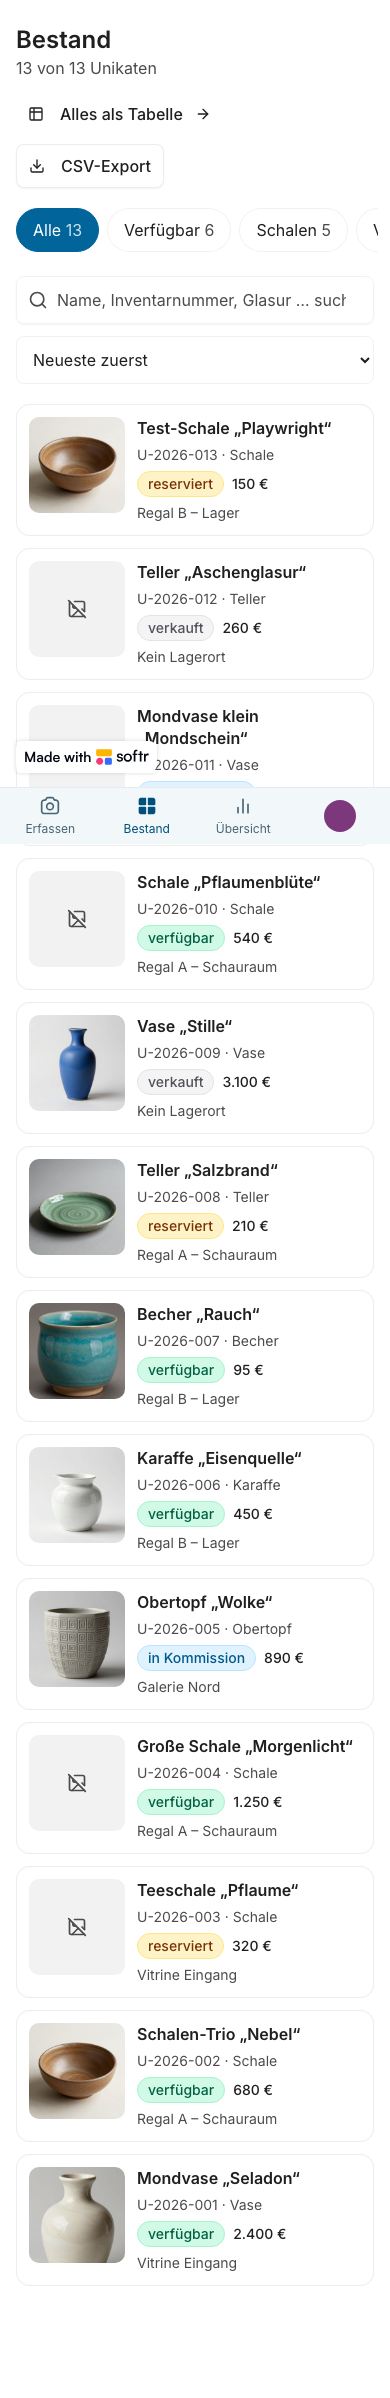
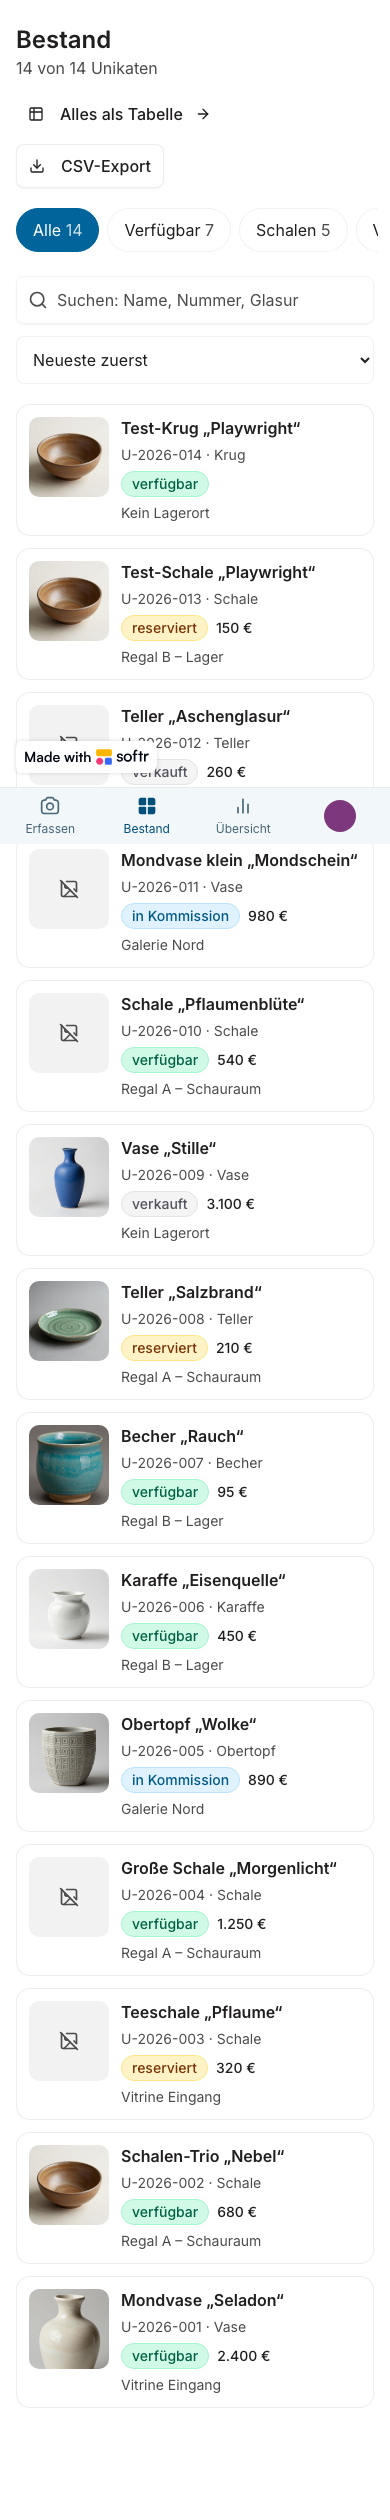
Softr: Bestand nach UI-Review – Schließen-Knopf, Rückgängig, Statusfarben, Detail-Reihenfolge, Tablet/Mobil-Layout

diff --git a/konzept/softr/blocks/bestand.tsx b/konzept/softr/blocks/bestand.tsx
@@ -4,8 +4,8 @@ import { useCurrentUser } from "@/lib/user";
 import { Button } from "@/components/ui/button";
 import { Input } from "@/components/ui/input";
 import { Textarea } from "@/components/ui/textarea";
-import { Sheet, SheetContent, SheetDescription, SheetHeader, SheetTitle } from "@/components/ui/sheet";
-import { ArrowRight, Check, Download, ImageOff, Loader2, Minus, Pencil, Plus, Search, Table2 } from "lucide-react";
+import { Sheet, SheetClose, SheetContent, SheetDescription, SheetHeader, SheetTitle } from "@/components/ui/sheet";
+import { ArrowRight, Check, Download, ImageOff, Loader2, Minus, Pencil, Plus, Search, Table2, X } from "lucide-react";
 import { toast } from "sonner";
 
 const ds = datasource.define({ unikate: "unikate", edition: "edition" });
@@ -76,6 +76,15 @@ const STATUS_STYLE: Record<string, string> = {
   [ROHLING]: "bg-stone-100 text-stone-700 border-stone-200",
   glasiert: "bg-teal-50 text-teal-800 border-teal-200",
 };
+
+const STATUS_ACTIVE: Record<string, string> = {
+  verfügbar: "bg-emerald-600 text-white border-emerald-600",
+  reserviert: "bg-amber-400 text-amber-950 border-amber-400",
+  [VERKAUFT]: "bg-zinc-500 text-white border-zinc-500",
+  [KOMMISSION]: "bg-sky-600 text-white border-sky-600",
+};
+const UNDO_MS = 10000;
+const SHEET_CLASS = "w-full overflow-y-auto [&>button:last-child]:hidden";
 
 type Opt = { id: string; label: string };
 type Attachment = { id?: string; url: string; filename?: string; thumbnails?: { url: string; size: string }[] };
@@ -325,17 +334,44 @@ function Thumb({ fotos, size, className }: { fotos: Attachment[]; size: "small" 
   return <img src={thumb(first, size)} alt="" loading="lazy" className={`${className} object-cover`} />;
 }
 
-function Chip({ active, onClick, children, disabled }: { active: boolean; onClick: () => void; children: string; disabled?: boolean }) {
+function Chip({ active, onClick, children, disabled, activeClass }: { active: boolean; onClick: () => void; children: string; disabled?: boolean; activeClass?: string }) {
   return (
     <button
       type="button"
       aria-pressed={active}
       disabled={disabled}
       onClick={onClick}
-      className={`min-h-11 px-4 rounded-full border text-base disabled:opacity-60 ${active ? "bg-primary text-primary-foreground border-primary" : "bg-background hover:bg-muted border-input"}`}
+      className={`inline-flex items-center gap-1.5 min-h-11 px-4 rounded-full border text-base disabled:opacity-60 ${active ? activeClass ?? "bg-primary text-primary-foreground border-primary" : "bg-background hover:bg-muted border-input"}`}
     >
+      {active && <Check className="w-4 h-4" aria-hidden />}
       {children}
     </button>
+  );
+}
+
+function PanelHeader({ title, description }: { title: string; description: string }) {
+  return (
+    <SheetHeader className="flex-row items-start justify-between gap-3 space-y-0">
+      <div className="min-w-0">
+        <SheetTitle className="text-xl break-words hyphens-auto">{title}</SheetTitle>
+        <SheetDescription>{description}</SheetDescription>
+      </div>
+      <SheetClose asChild>
+        <Button variant="ghost" className="h-11 w-11 p-0 shrink-0" aria-label="Schließen">
+          <X className="w-6 h-6" aria-hidden />
+        </Button>
+      </SheetClose>
+    </SheetHeader>
+  );
+}
+
+function DoneButton() {
+  return (
+    <SheetClose asChild>
+      <Button variant="outline" className="w-full h-12 text-base">
+        Fertig
+      </Button>
+    </SheetClose>
   );
 }
 
@@ -364,9 +400,9 @@ function UnikatCard({ u, onOpen }: { u: Unikat; onOpen: () => void }) {
   const ort = u.status === KOMMISSION && u.galerie ? u.galerie.label : u.lagerort?.label;
   return (
     <button type="button" onClick={onOpen} className="w-full text-left flex gap-3 rounded-xl border bg-card p-3 min-w-0 hover:border-primary/50 hover:shadow-sm transition">
-      <Thumb fotos={u.fotos} size="medium" className="w-24 h-24 shrink-0 rounded-lg" />
+      <Thumb fotos={u.fotos} size="medium" className="w-20 h-20 sm:w-24 sm:h-24 shrink-0 rounded-lg" />
       <div className="min-w-0 flex-1 space-y-1.5">
-        <p className="font-semibold text-base leading-snug break-words">{u.name || "Ohne Namen"}</p>
+        <p className="font-semibold text-base leading-snug hyphens-auto">{u.name || "Ohne Namen"}</p>
         <p className="text-sm text-muted-foreground">
           {u.inv} · {u.typ}
         </p>
@@ -431,17 +467,24 @@ function UnikatDetail({
   const [photoIndex, setPhotoIndex] = useState(0);
   const [newFiles, setNewFiles] = useState<File[]>([]);
   const [busy, setBusy] = useState(false);
+  const [undo, setUndo] = useState<{ text: string; fields: Record<string, unknown> } | null>(null);
   const { uploadAsync } = useUpload();
   const update = useRecordUpdate({ from: ds.unikate, fields: unikatWerkstattFields });
+  useEffect(() => {
+    if (!undo) return;
+    const timer = window.setTimeout(() => setUndo(null), UNDO_MS);
+    return () => window.clearTimeout(timer);
+  }, [undo]);
   const set = <K extends keyof EditForm>(k: K, v: EditForm[K]) => setForm((s) => ({ ...s, [k]: v }));
   const photo = u.fotos[Math.min(photoIndex, u.fotos.length - 1)];
 
-  async function quickSave(fields: Record<string, unknown>, message: string) {
+  async function quickSave(fields: Record<string, unknown>, message: string, undoFields?: Record<string, unknown>) {
     setBusy(true);
     try {
       await update.mutateAsync({ recordId: u.id, fields } as never);
       await onSaved();
       toast.success(message);
+      setUndo(undoFields ? { text: message, fields: undoFields } : null);
     } catch {
       toast.error("Speichern hat nicht geklappt. Bitte erneut versuchen.");
     } finally {
@@ -451,10 +494,10 @@ function UnikatDetail({
 
   function changeStatus(status: string) {
     if (status === u.status || busy) return;
-    const fields: Record<string, unknown> = { status };
-    if (status === VERKAUFT) fields.verkauftAm = today();
+    const fields: Record<string, unknown> = { status, verkauftAm: status === VERKAUFT ? today() : null };
     if (status !== KOMMISSION) fields.galerie = [];
-    quickSave(fields, `Status: ${status}`);
+    const before = { status: u.status, verkauftAm: u.verkauftAm ? u.verkauftAm.slice(0, 10) : null, galerie: link(u.galerie?.id) };
+    quickSave(fields, `Status: ${status}`, before);
   }
 
   async function saveAll() {
@@ -510,38 +553,10 @@ function UnikatDetail({
 
   return (
     <Sheet open onOpenChange={(o) => !o && onClose()}>
-      <SheetContent side="right" className="w-full sm:max-w-xl overflow-y-auto">
-        <SheetHeader>
-          <SheetTitle className="text-xl">{u.name || "Ohne Namen"}</SheetTitle>
-          <SheetDescription>
-            {u.inv} · {u.typ}
-          </SheetDescription>
-        </SheetHeader>
-        <div className="px-4 pb-8 space-y-6">
-          {photo ? (
-            <div className="space-y-2">
-              <img src={thumb(photo, "large")} alt={u.name} className="w-full max-h-80 object-contain rounded-xl bg-muted" />
-              {u.fotos.length > 1 && (
-                <div className="flex gap-2 overflow-x-auto">
-                  {u.fotos.map((a, i) => (
-                    <button key={a.id ?? a.url} type="button" aria-label={`Foto ${i + 1} zeigen`} onClick={() => setPhotoIndex(i)} className={`shrink-0 rounded-md overflow-hidden border-2 ${i === photoIndex ? "border-primary" : "border-transparent"}`}>
-                      <img src={thumb(a, "small")} alt="" className="w-16 h-16 object-cover" />
-                    </button>
-                  ))}
-                </div>
-              )}
-            </div>
-          ) : (
-            <div className="h-32 rounded-xl bg-muted flex items-center justify-center gap-2 text-muted-foreground">
-              <ImageOff className="w-5 h-5" aria-hidden /> Noch kein Foto
-            </div>
-          )}
-
-          <div className="flex flex-wrap items-center gap-3">
-            <Badge text={u.status} />
-            {u.preis !== null && <span className="text-lg font-semibold">{euro.format(u.preis)}</span>}
-          </div>
-
+      <SheetContent side="right" className={`${SHEET_CLASS} sm:max-w-xl`}>
+        <PanelHeader title={u.name || "Ohne Namen"} description={[u.inv, u.typ, u.preis !== null ? euro.format(u.preis) : ""].filter(Boolean).join(" · ")} />
+        <div className="px-4 pb-8 space-y-6" lang="de">
+          {!update.enabled && <Badge text={u.status} />}
           {update.enabled && (
             <section className="rounded-xl border p-4 space-y-4" aria-labelledby="schnell-titel">
               <h3 id="schnell-titel" className="text-base font-semibold">
@@ -551,7 +566,7 @@ function UnikatDetail({
                 <p className="text-sm text-muted-foreground mb-2">Status</p>
                 <div className="flex flex-wrap gap-2">
                   {statusListe.map((s) => (
-                    <Chip key={s.id} active={u.status === s.label} disabled={busy} onClick={() => changeStatus(s.label)}>
+                    <Chip key={s.id} active={u.status === s.label} activeClass={STATUS_ACTIVE[s.label]} disabled={busy} onClick={() => changeStatus(s.label)}>
                       {s.label}
                     </Chip>
                   ))}
@@ -565,7 +580,7 @@ function UnikatDetail({
                   id="d-lagerort"
                   value={u.lagerort?.id ?? ""}
                   disabled={busy}
-                  onChange={(v) => quickSave({ lagerort: link(v) }, `Lagerort: ${lagerorte.find((l) => l.id === v)?.label ?? "keiner"}`)}
+                  onChange={(v) => quickSave({ lagerort: link(v) }, `Lagerort: ${lagerorte.find((l) => l.id === v)?.label ?? "keiner"}`, { lagerort: link(u.lagerort?.id) })}
                   options={lagerorte}
                   placeholder="Kein Lagerort"
                 />
@@ -579,7 +594,7 @@ function UnikatDetail({
                     id="d-galerie"
                     value={u.galerie?.id ?? ""}
                     disabled={busy}
-                    onChange={(v) => quickSave({ galerie: link(v) }, `Galerie: ${galerien.find((g) => g.id === v)?.label ?? "keine"}`)}
+                    onChange={(v) => quickSave({ galerie: link(v) }, `Galerie: ${galerien.find((g) => g.id === v)?.label ?? "keine"}`, { galerie: link(u.galerie?.id) })}
                     options={galerien}
                     placeholder="Galerie wählen"
                   />
@@ -590,7 +605,41 @@ function UnikatDetail({
                   <Loader2 className="w-4 h-4 animate-spin" aria-hidden /> Wird gespeichert …
                 </p>
               )}
+              {undo && !busy && (
+                <div role="status" className="flex items-center justify-between gap-3 rounded-lg bg-muted p-2 pl-3">
+                  <span className="text-sm">{undo.text} gespeichert</span>
+                  <Button
+                    variant="outline"
+                    className="h-11 text-base"
+                    onClick={() => {
+                      const fields = undo.fields;
+                      setUndo(null);
+                      quickSave(fields, "Rückgängig gemacht");
+                    }}
+                  >
+                    Rückgängig
+                  </Button>
+                </div>
+              )}
             </section>
+          )}
+          {photo ? (
+            <div className="space-y-2">
+              <img src={thumb(photo, "large")} alt={u.name} className="w-full max-h-56 object-contain rounded-xl bg-muted" />
+              {u.fotos.length > 1 && (
+                <div className="flex gap-2 overflow-x-auto">
+                  {u.fotos.map((a, i) => (
+                    <button key={a.id ?? a.url} type="button" aria-label={`Foto ${i + 1} zeigen`} onClick={() => setPhotoIndex(i)} className={`shrink-0 rounded-md overflow-hidden border-2 ${i === photoIndex ? "border-primary" : "border-transparent"}`}>
+                      <img src={thumb(a, "small")} alt="" className="w-16 h-16 object-cover" />
+                    </button>
+                  ))}
+                </div>
+              )}
+            </div>
+          ) : (
+            <div className="h-24 rounded-xl bg-muted flex items-center justify-center gap-2 text-muted-foreground">
+              <ImageOff className="w-5 h-5" aria-hidden /> Noch kein Foto
+            </div>
           )}
 
           {!editing ? (
@@ -628,6 +677,7 @@ function UnikatDetail({
                   </Button>
                 )}
                 <p className="text-sm text-muted-foreground">Löschen ist nicht vorgesehen. Verkaufte Stücke bitte auf „verkauft“ setzen.</p>
+                <DoneButton />
               </div>
             </>
           ) : (
@@ -711,19 +761,19 @@ function UnikatDetail({
 
 function EditionRow({ e, busy, canEdit, onAdjust, onOpen }: { e: Edition; busy: boolean; canEdit: boolean; onAdjust: (delta: number) => void; onOpen: () => void }) {
   return (
-    <div className="flex items-center gap-3 rounded-xl border bg-card p-3 min-w-0">
+    <div className="flex flex-col sm:flex-row sm:items-center gap-3 rounded-xl border bg-card p-3 min-w-0">
       <button type="button" onClick={onOpen} className="flex items-center gap-3 min-w-0 flex-1 text-left">
         <Thumb fotos={e.foto} size="small" className="w-14 h-14 shrink-0 rounded-lg" />
         <div className="min-w-0 space-y-1">
-          <p className="font-semibold text-base leading-snug break-words">{e.modell}</p>
+          <p className="font-semibold text-base leading-snug hyphens-auto">{e.modell}</p>
           <div className="flex flex-wrap items-center gap-2">
             <Badge text={e.zustand} />
             {e.glasur && <span className="text-sm">{e.glasur}</span>}
           </div>
-          <p className="text-sm text-muted-foreground truncate">{e.lagerort?.label ?? "Kein Lagerort"}</p>
+          <p className="text-sm text-muted-foreground">{e.lagerort?.label ?? "Kein Lagerort"}</p>
         </div>
       </button>
-      <div className="flex items-center gap-1 shrink-0">
+      <div className="flex items-center gap-1 shrink-0 self-end sm:self-auto">
         {canEdit && (
           <Button variant="outline" className="h-11 w-11 p-0" aria-label={`${e.modell}: eins weniger`} disabled={busy || e.anzahl <= 0} onClick={() => onAdjust(-1)}>
             <Minus className="w-5 h-5" aria-hidden />
@@ -750,11 +800,8 @@ function EditionDetail({ e, onClose, onSave, lagerorte, canEdit }: { e: Edition;
   const value = Number(anzahl) || 0;
   return (
     <Sheet open onOpenChange={(o) => !o && onClose()}>
-      <SheetContent side="right" className="w-full sm:max-w-md overflow-y-auto">
-        <SheetHeader>
-          <SheetTitle className="text-xl">{e.modell}</SheetTitle>
-          <SheetDescription>{[e.typ, e.zustand, e.glasur].filter(Boolean).join(" · ")}</SheetDescription>
-        </SheetHeader>
+      <SheetContent side="right" className={`${SHEET_CLASS} sm:max-w-md`}>
+        <PanelHeader title={e.modell} description={[e.typ, e.zustand, e.glasur].filter(Boolean).join(" · ")} />
         <div className="px-4 pb-8 space-y-6">
           {e.foto[0] && <img src={thumb(e.foto[0], "large")} alt={e.modell} className="w-full max-h-72 object-contain rounded-xl bg-muted" />}
           <div>
@@ -790,6 +837,7 @@ function EditionDetail({ e, onClose, onSave, lagerorte, canEdit }: { e: Edition;
               {busy ? "Wird gespeichert …" : "Änderungen speichern"}
             </Button>
           )}
+          <DoneButton />
         </div>
       </SheetContent>
     </Sheet>
@@ -861,9 +909,20 @@ export default function Block() {
 
   async function adjustEdition(e: Edition, delta: number) {
     setPendingEdition(e.id);
+    const neu = Math.max(0, e.anzahl + delta);
     try {
-      await editionUpdate.mutateAsync({ recordId: e.id, fields: { anzahl: Math.max(0, e.anzahl + delta) } } as never);
+      await editionUpdate.mutateAsync({ recordId: e.id, fields: { anzahl: neu } } as never);
       await editionQuery.refetch();
+      toast.success(`${e.modell}${e.glasur ? ` · ${e.glasur}` : ""}: ${e.anzahl} → ${neu}`, {
+        duration: 6000,
+        action: {
+          label: "Rückgängig",
+          onClick: async () => {
+            await editionUpdate.mutateAsync({ recordId: e.id, fields: { anzahl: e.anzahl } } as never);
+            await editionQuery.refetch();
+          },
+        },
+      });
     } catch {
       toast.error("Anzahl konnte nicht gespeichert werden.");
     } finally {
@@ -928,7 +987,7 @@ export default function Block() {
             <Input
               type="search"
               aria-label="Suche"
-              placeholder={isEdition ? "Modell oder Glasur suchen" : "Name, Inventarnummer, Glasur … suchen"}
+              placeholder={isEdition ? "Suchen: Modell, Glasur" : "Suchen: Name, Nummer, Glasur"}
               value={search}
               onChange={(e) => setSearch(e.target.value)}
               className="h-12 pl-10 text-base"
@@ -971,7 +1030,7 @@ export default function Block() {
           visibleEdition.length === 0 ? (
             <p className="rounded-xl border p-6 text-base text-muted-foreground text-center">Keine Editionsware gefunden.</p>
           ) : (
-            <div className="grid grid-cols-1 lg:grid-cols-2 gap-3">
+            <div className="grid grid-cols-[repeat(auto-fill,minmax(min(100%,22rem),1fr))] gap-3" lang="de">
               {visibleEdition.map((e) => (
                 <EditionRow key={e.id} e={e} busy={pendingEdition === e.id} canEdit={editionUpdate.enabled} onAdjust={(d) => adjustEdition(e, d)} onOpen={() => setEditionId(e.id)} />
               ))}
@@ -988,7 +1047,7 @@ export default function Block() {
           </div>
         ) : (
           <>
-            <div className="grid grid-cols-1 sm:grid-cols-2 xl:grid-cols-3 gap-3">
+            <div className="grid grid-cols-[repeat(auto-fill,minmax(min(100%,19rem),1fr))] gap-3" lang="de">
               {visible.slice(0, limit).map((u) => (
                 <UnikatCard key={u.id} u={u} onOpen={() => setSelectedId(u.id)} />
               ))}
